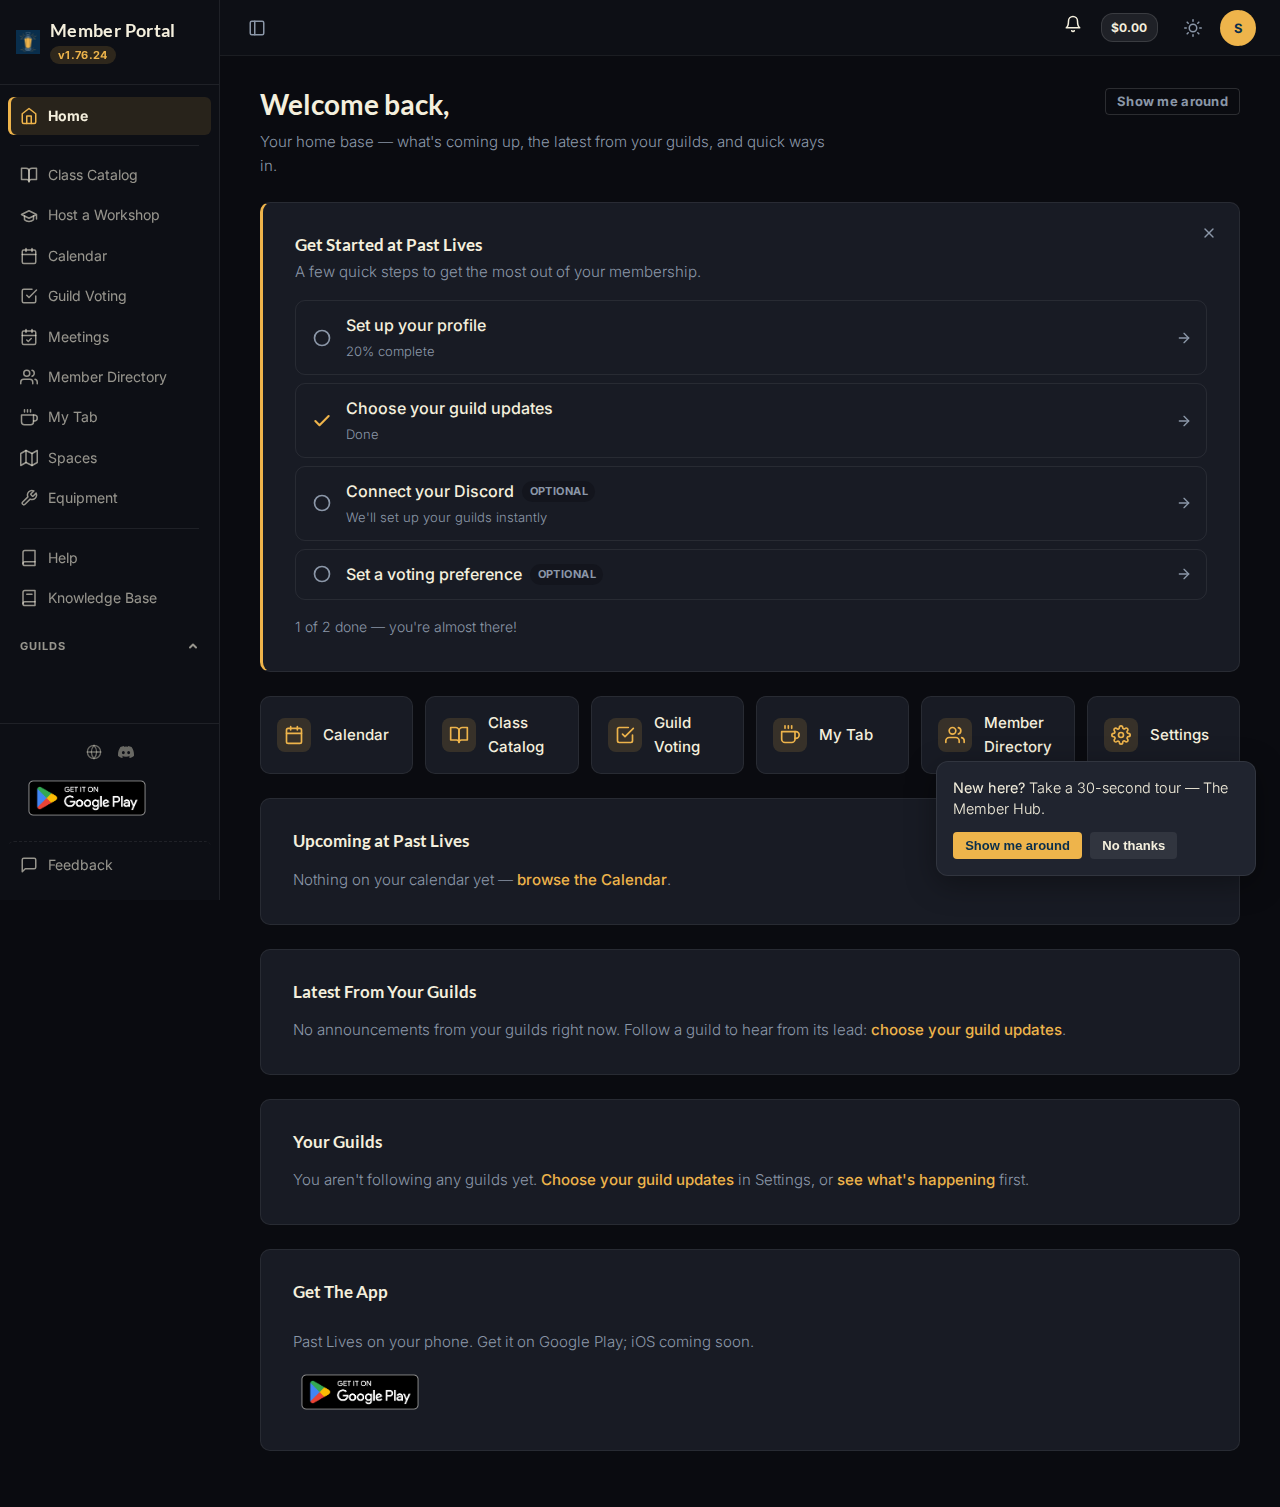
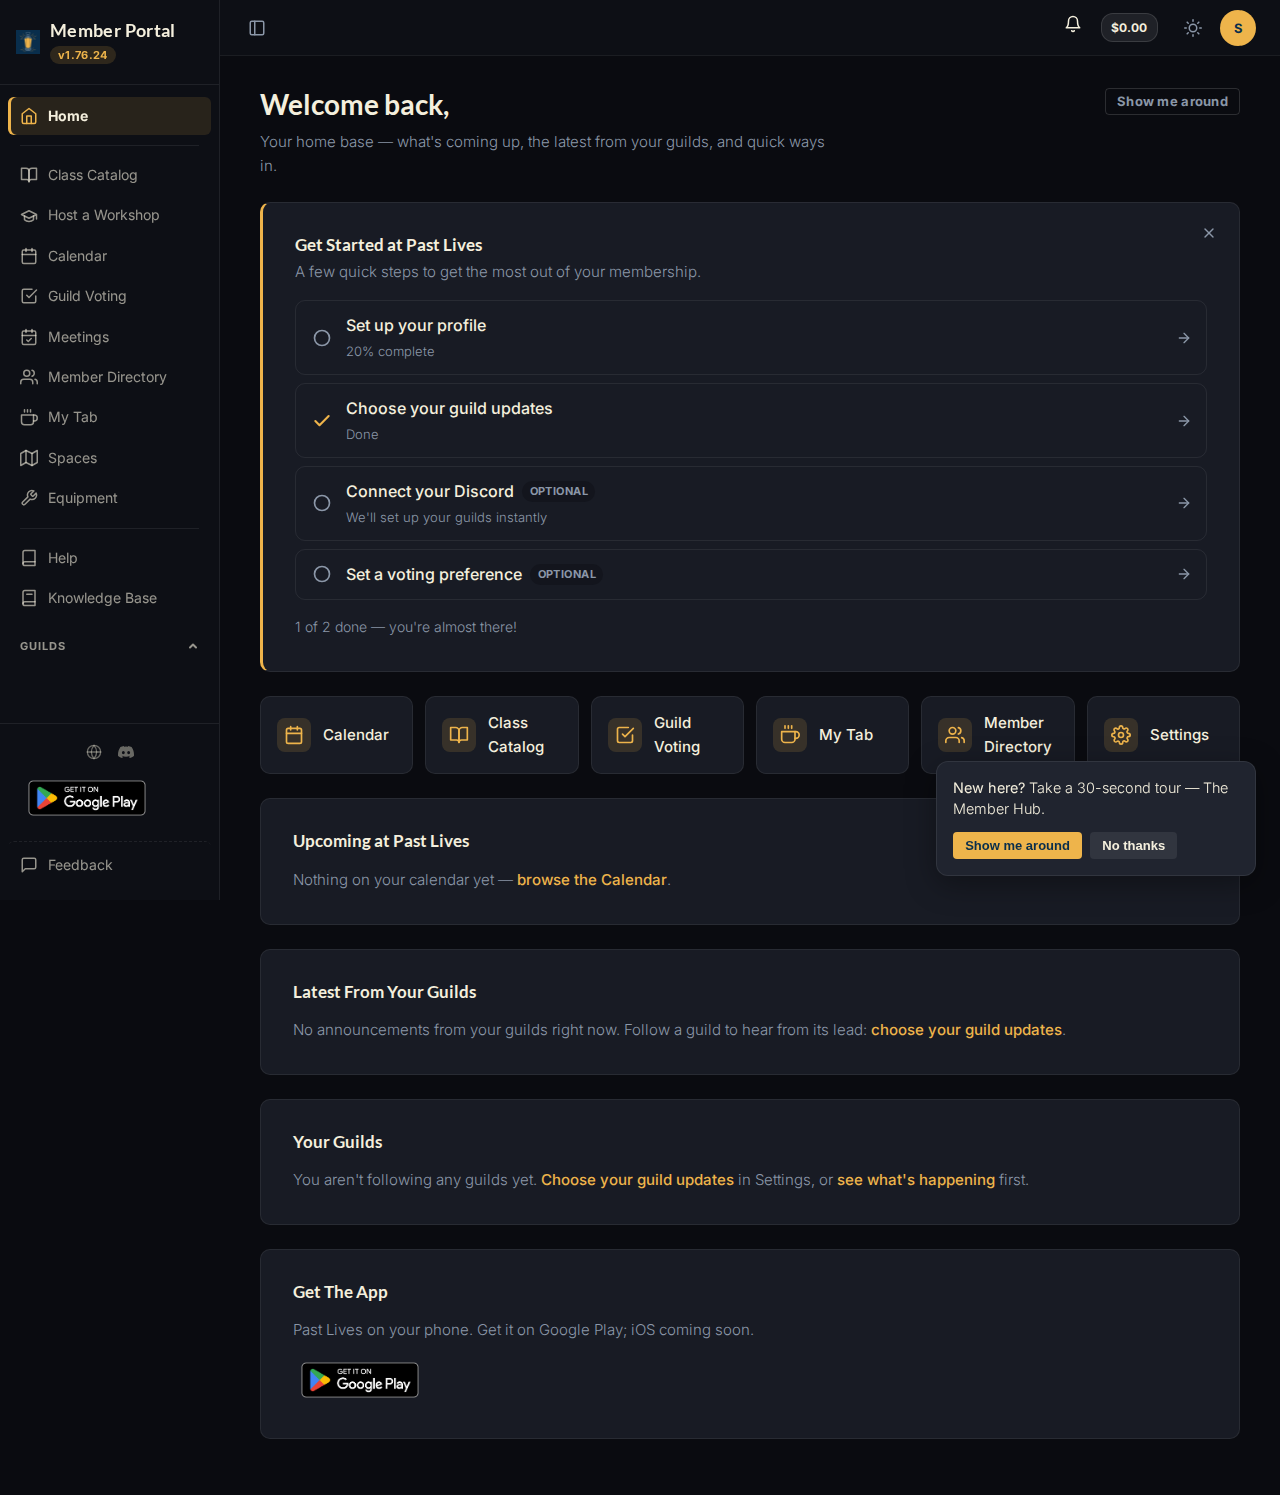
[hub] Review fixes: the home card keeps the 1rem heading rhythm, one iOS bullet across the two fragments (#474)
The Get The App heading's own margin stacked on the flex gap, so the card ran 1.75rem
from heading to caption where its siblings run 1rem. The iOS line members already hear
from the email fragment is not repeated here. An unused spec parameter is gone.

Claude-Session: https://claude.ai/code/session_016oQAaPzkwBV4Dc6jtMrvVe

diff --git a/static/css/components.css b/static/css/components.css
@@ -1666,6 +1666,12 @@
     gap: 0.75rem;
 }
 
+/* On the home card the heading keeps the sibling cards' 1rem rhythm: its own margin plus the
+   flex gap above add up to it, instead of stacking on top of it. */
+.pl-app-badges .pl-home-heading {
+    margin-bottom: 0.25rem;
+}
+
 .pl-app-badges__caption {
     margin: 0;
     font-size: 0.9375rem;

diff --git a/tests/core/app_store_badges_pages_spec.py b/tests/core/app_store_badges_pages_spec.py
@@ -73,11 +73,11 @@ def _card(html: str) -> str:
     return card
 
 
-def _member_client(username: str = "badges-member") -> Client:
+def _member_client() -> Client:
     MembershipPlanFactory()
-    User.objects.create_user(username=username, password="pass")
+    User.objects.create_user(username="badges-member", password="pass")
     client = Client()
-    client.login(username=username, password="pass")
+    client.login(username="badges-member", password="pass")
     return client
 
 
